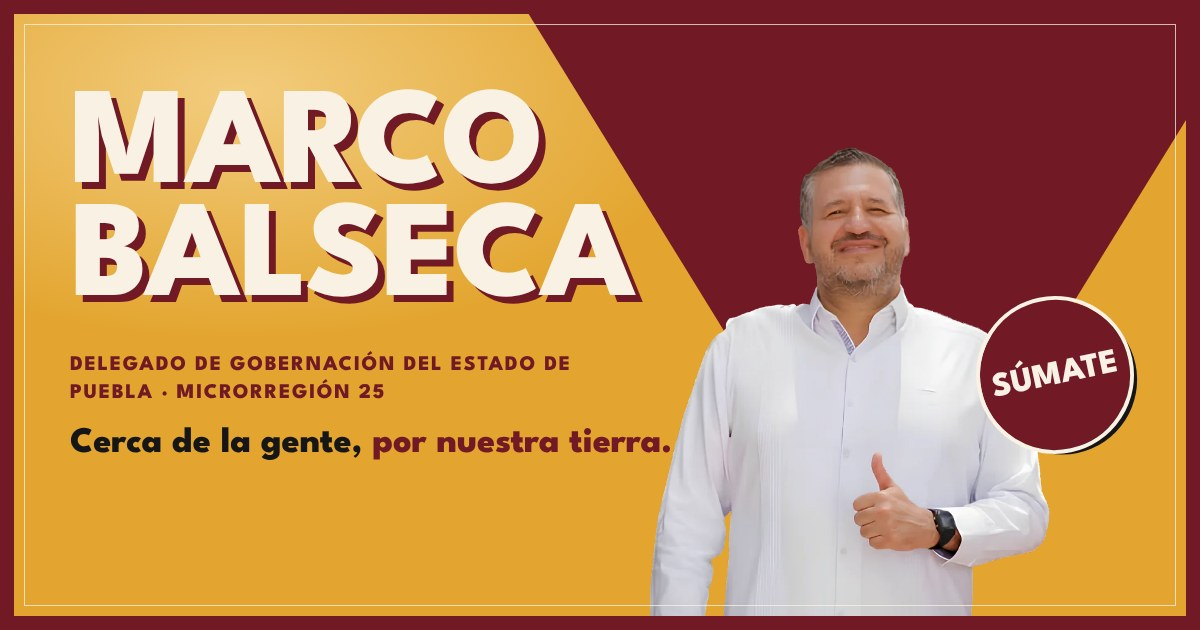
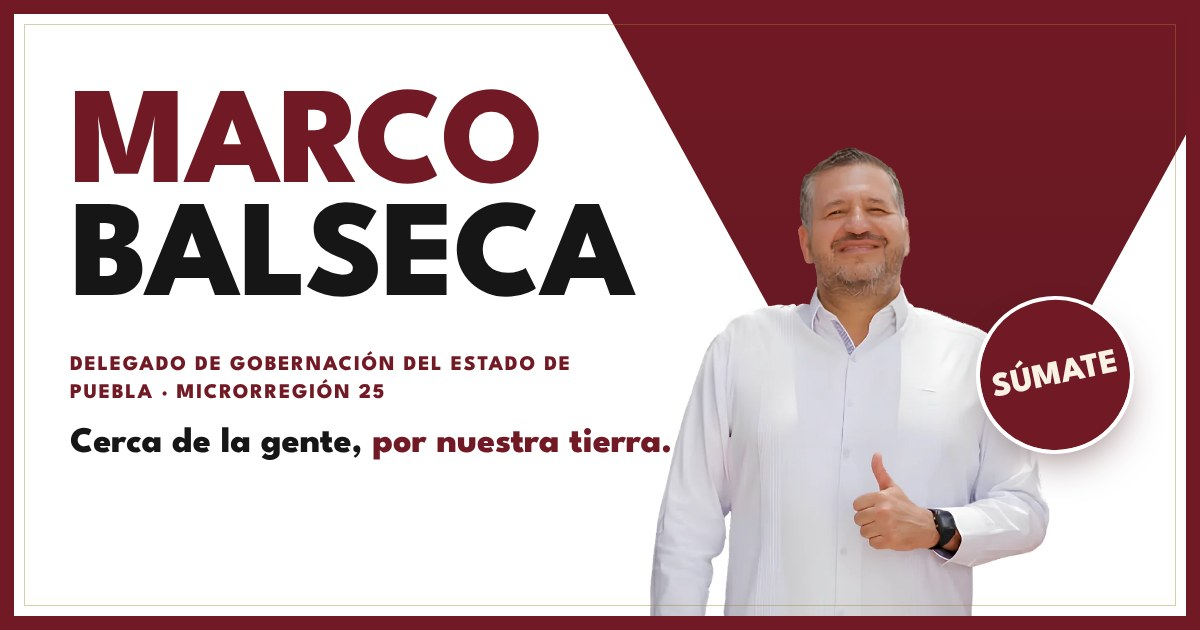
Paleta blanca: fuera el naranja; guinda como único color de peso
- Hero: campo blanco, triángulo guinda anclado al contenedor (no cruza el
  nombre en ningún ancho), nombre en colores de marca, sin sombras duras;
  tope de tamaño del nombre solo en pantallas >=1536px para no montarse
  sobre el teléfono.
- #PuroTehuacán en blanco con triángulo guinda; arco del cierre en blanco;
  testimonios con auras guinda y dorado institucional.
- Se eliminan los tokens marigold y la sombra de póster; og-image en blanco.

Claude-Session: https://claude.ai/code/session_01KDmnSJQ6kaucfzTnVfvZxM

diff --git a/src/pages/Home/Hero.tsx b/src/pages/Home/Hero.tsx
@@ -29,10 +29,10 @@ const HERO_SLIDES: VideoPhoto[] = [
 
 /* =========================================================================
    HERO — "El cartel".
-   Lenguaje de póster de campaña (ref. Mamdani) con identidad propia: campo
-   DORADO intenso, triángulo GUINDA que apunta al teléfono, marco guinda con
-   filete crema, nombre en crema con sombra dura guinda y sello circular
-   "Súmate". El video (montaje de fotos reales) vuelve a ser el protagonista.
+   Estructura de póster de campaña (ref. Mamdani) con la identidad propia:
+   campo BLANCO, un solo color de peso (GUINDA) en el triángulo que apunta al
+   teléfono, marco guinda con filete dorado fino, nombre en sus colores de
+   marca y sello circular "Súmate". El video (montaje de fotos reales) vuelve a ser el protagonista.
    Cierra con una franja guinda de credenciales (cifras verificables).
    ========================================================================= */
 export function Hero() {
@@ -69,62 +69,43 @@ export function Hero() {
     <section
       onMouseMove={onMove}
       onMouseLeave={onLeave}
-      className="relative overflow-hidden bg-marigold text-ink"
+      className="relative overflow-hidden bg-white text-ink"
     >
-      {/* ---------- Fondo de cartel ---------- */}
+      {/* ---------- Fondo de cartel (blanco + guinda) ---------- */}
       <div aria-hidden className="pointer-events-none absolute inset-0 z-0">
-        {/* luz y viñeta: el dorado no se siente plano */}
-        <div
-          className="absolute inset-0"
-          style={{
-            background:
-              'radial-gradient(60% 55% at 25% 20%, rgba(255,236,190,0.55), transparent 65%), radial-gradient(80% 70% at 50% 120%, rgba(201,138,26,0.65), transparent 70%)',
-          }}
-        />
         {/* TRIÁNGULO guinda invertido (figura del cartel) detrás del teléfono */}
+        {/* anclado al contenedor: acompaña siempre al teléfono y no toca el nombre */}
+        <div className="absolute inset-y-0 left-1/2 hidden w-full max-w-[88rem] -translate-x-1/2 lg:block">
+          <div
+            className="absolute -right-[120px] left-[54%] top-[104px] h-[86%] bg-gradient-to-b from-accent to-accent-deep"
+            style={{ clipPath: 'polygon(0 0, 100% 0, 50% 100%)' }}
+          />
+        </div>
+        {/* semitono guinda muy tenue al pie (textura de serigrafía) */}
         <div
-          className="absolute inset-x-0 top-[104px] hidden h-[86%] bg-accent lg:left-[38%] lg:block"
-          style={{ clipPath: 'polygon(0 0, 100% 0, 50% 100%)' }}
-        />
-        {/* semitono guinda sobre el dorado (serigrafía) */}
-        <div
-          className="halftone absolute inset-0 text-accent opacity-[0.10]"
+          className="halftone absolute inset-0 text-accent opacity-[0.06]"
           style={{
-            WebkitMaskImage: 'linear-gradient(to bottom, transparent 30%, #000 100%)',
-            maskImage: 'linear-gradient(to bottom, transparent 30%, #000 100%)',
-          }}
-        />
-        {/* papel/grano */}
-        <div
-          className="absolute inset-0 opacity-[0.09] mix-blend-multiply"
-          style={{ backgroundImage: 'url(/assets/backgrounds/grain.png)', backgroundSize: '420px' }}
-        />
-        {/* textura de póster generada (opcional; si falta, se oculta) */}
-        <img
-          src="/assets/generated/poster-papel.webp"
-          alt=""
-          className="absolute inset-0 h-full w-full object-cover opacity-40 mix-blend-multiply"
-          onError={(e) => {
-            e.currentTarget.style.display = 'none'
+            WebkitMaskImage: 'linear-gradient(to bottom, transparent 45%, #000 100%)',
+            maskImage: 'linear-gradient(to bottom, transparent 45%, #000 100%)',
           }}
         />
       </div>
 
-      {/* Marco del cartel: borde guinda + filete crema interior */}
+      {/* Marco del cartel: borde guinda + filete dorado interior */}
       <div aria-hidden className="pointer-events-none absolute inset-0 z-30 border-[8px] border-accent md:border-[12px]" />
-      <div aria-hidden className="pointer-events-none absolute inset-[14px] z-30 border border-cream/70 md:inset-[22px]" />
+      <div aria-hidden className="pointer-events-none absolute inset-[14px] z-30 border border-gold/35 md:inset-[22px]" />
 
       <div className="container-x relative z-10 pt-28 lg:pt-32">
         <div className="grid items-center gap-y-12 lg:grid-cols-12 lg:gap-x-8">
           {/* ---------------- Texto ---------------- */}
           <div className="relative z-20 lg:col-span-7">
-            <h1 className="[--poster-shadow:var(--color-accent)]">
+            <h1>
               <RevealText
                 as="span"
                 text="Marco"
                 onMount
                 stagger={0.05}
-                className="font-display poster-shadow block text-[19vw] leading-[0.8] text-cream sm:text-[16vw] lg:text-[12.5vw]"
+                className="font-display block text-[19vw] leading-[0.8] text-accent sm:text-[16vw] lg:text-[12.5vw] 2xl:text-[11.25rem]"
               />
               <RevealText
                 as="span"
@@ -132,12 +113,12 @@ export function Hero() {
                 onMount
                 delay={0.12}
                 stagger={0.04}
-                className="font-display poster-shadow block text-[19vw] leading-[0.8] text-cream sm:text-[16vw] lg:text-[12.5vw]"
+                className="font-display block text-[19vw] leading-[0.8] text-ink sm:text-[16vw] lg:text-[12.5vw] 2xl:text-[11.25rem]"
               />
             </h1>
 
             <motion.p {...appear(0.35)} className="mt-7 flex max-w-xl items-start gap-3">
-              <span aria-hidden className="mt-[0.55em] h-[3px] w-10 shrink-0 bg-accent" />
+              <span aria-hidden className="mt-[0.55em] h-[3px] w-10 shrink-0 bg-gradient-to-r from-accent to-gold" />
               <span className="font-condensed text-base font-semibold uppercase leading-snug tracking-[0.08em] text-accent md:text-lg">
                 Delegado de Gobernación del Estado de Puebla · Microrregión 25
               </span>
@@ -150,7 +131,7 @@ export function Hero() {
               Cerca de la gente, <span className="text-accent">por nuestra tierra.</span>
             </motion.p>
 
-            <motion.p {...appear(0.5)} className="mt-5 max-w-xl text-lg text-ink/80 md:text-xl">
+            <motion.p {...appear(0.5)} className="mt-5 max-w-xl text-lg text-ink/75 md:text-xl">
               Soy abogado y maestro en Administración. Empecé en esto a los 15 años y llevo 30 en
               la vida pública, siempre con la misma idea: la política se hace en territorio, cara a
               cara, todos los días.
@@ -162,7 +143,7 @@ export function Hero() {
                   to="/contacto"
                   tone="accent"
                   variant="solid"
-                  className="shadow-[5px_5px_0_0_var(--color-ink)] hover:shadow-[7px_7px_0_0_var(--color-ink)]"
+                  className="shadow-[0_16px_36px_-14px_rgba(113,25,36,0.7)]"
                 >
                   Súmate
                 </ButtonLink>
@@ -172,8 +153,8 @@ export function Hero() {
               </div>
 
               <div className="mt-7 flex items-center gap-3">
-                <span className="eyebrow text-ink/70">Sígueme</span>
-                <span aria-hidden className="h-px w-6 bg-ink/25" />
+                <span className="eyebrow text-mute">Sígueme</span>
+                <span aria-hidden className="h-px w-6 bg-ink/15" />
                 <div className="flex items-center gap-2">
                   {HERO_SOCIAL.map(({ Icon, label, url }) => (
                     <a
@@ -182,7 +163,7 @@ export function Hero() {
                       target="_blank"
                       rel="noreferrer"
                       aria-label={label}
-                      className="flex h-11 w-11 items-center justify-center rounded-full border border-ink/20 text-ink/80 transition-colors duration-200 hover:border-accent hover:bg-accent hover:text-cream"
+                      className="flex h-11 w-11 items-center justify-center rounded-full border border-ink/12 text-ink/70 transition-colors duration-200 hover:border-accent hover:bg-accent hover:text-white"
                     >
                       <Icon className="h-[18px] w-[18px]" />
                     </a>
@@ -197,16 +178,16 @@ export function Hero() {
             {/* Triángulo guinda en móvil: solo detrás del teléfono */}
             <div
               aria-hidden
-              className="pointer-events-none absolute -inset-x-6 -top-8 bottom-[8%] bg-accent lg:hidden"
+              className="pointer-events-none absolute -inset-x-6 -top-8 bottom-[8%] bg-gradient-to-b from-accent to-accent-deep lg:hidden"
               style={{ clipPath: 'polygon(0 0, 100% 0, 50% 100%)' }}
             />
             {/* Prueba social: sobre el triángulo guinda, arriba del teléfono */}
             <motion.div
               {...appear(0.5)}
-              className="relative z-40 mx-auto mb-6 flex w-fit items-center gap-2.5 rounded-2xl bg-accent px-3 py-2 shadow-[4px_4px_0_0_var(--color-ink)] lg:mb-7"
+              className="relative z-40 mx-auto mb-6 flex w-fit items-center gap-2.5 rounded-2xl bg-white px-3 py-2 pr-5 shadow-lift ring-1 ring-ink/5 lg:mb-7"
             >
               <CommunityAvatars count={3} />
-              <LiveCounter tone="bone" layout="inline" />
+              <LiveCounter tone="ink" layout="inline" />
             </motion.div>
 
             <div ref={phoneRef} className="relative">
@@ -215,7 +196,7 @@ export function Hero() {
                 style={{ rotateX: reduce ? 0 : rotX, rotateY: reduce ? 0 : rotY, transformPerspective: 1000 }}
               >
                 {/* Carcasa del teléfono (bezel + botones + dynamic island) */}
-                <div className="relative rounded-[2.7rem] bg-black p-2.5 shadow-[14px_14px_0_0_var(--color-accent-deep),0_40px_70px_-25px_rgba(0,0,0,0.55)] ring-1 ring-black/20">
+                <div className="relative rounded-[2.7rem] bg-black p-2.5 shadow-[0_45px_80px_-30px_rgba(0,0,0,0.6)] ring-1 ring-black/20">
                   <span aria-hidden className="absolute -left-[3px] top-24 h-9 w-[3px] rounded-l-sm bg-black" />
                   <span aria-hidden className="absolute -left-[3px] top-36 h-14 w-[3px] rounded-l-sm bg-black" />
                   <span aria-hidden className="absolute -right-[3px] top-28 h-16 w-[3px] rounded-r-sm bg-black" />
@@ -238,7 +219,7 @@ export function Hero() {
               >
                 <Link
                   to="/contacto"
-                  className="font-display group grid h-28 w-28 -rotate-12 place-items-center rounded-full bg-accent text-center text-2xl leading-none text-cream shadow-[5px_5px_0_0_var(--color-ink)] ring-[3px] ring-cream transition-transform duration-300 hover:-rotate-6 hover:scale-105 md:h-32 md:w-32 md:text-[1.7rem]"
+                  className="font-display group grid h-28 w-28 -rotate-12 place-items-center rounded-full bg-accent text-center text-2xl leading-none text-white shadow-lift ring-[3px] ring-white transition-transform duration-300 hover:-rotate-6 hover:scale-105 md:h-32 md:w-32 md:text-[1.7rem]"
                 >
                   Súmate
                 </Link>

diff --git a/src/pages/Home/SocialStrip.tsx b/src/pages/Home/SocialStrip.tsx
@@ -12,36 +12,35 @@ import { SOCIAL } from '../../data/site'
  */
 export function SocialStrip() {
   return (
-    <section className="grain relative overflow-hidden bg-marigold py-24 text-ink [--grain:0.09] md:py-32">
+    <section className="relative overflow-hidden bg-white py-24 text-ink md:py-32">
       <div
         aria-hidden
-        className="pointer-events-none absolute inset-y-0 right-0 w-full lg:w-1/2"
-        style={{ background: 'radial-gradient(60% 60% at 30% 30%, rgba(255,236,190,0.5), transparent 70%)' }}
+        className="pointer-events-none absolute inset-0"
+        style={{ background: 'radial-gradient(50% 60% at 0% 100%, rgba(230,209,148,0.18), transparent 70%)' }}
       />
       {/* triángulo guinda del cartel detrás de las fotos */}
       <div
         aria-hidden
-        className="pointer-events-none absolute right-0 top-0 h-full w-full bg-accent lg:w-[58%]"
+        className="pointer-events-none absolute right-0 top-0 hidden h-full w-[58%] bg-gradient-to-b from-accent to-accent-deep lg:block"
         style={{ clipPath: 'polygon(18% 0, 100% 0, 100% 100%)' }}
       />
-      <div aria-hidden className="pointer-events-none absolute inset-0 z-[1] border-[8px] border-accent md:border-[12px]" />
-      <div className="container-x relative z-10 grid items-center gap-16 lg:grid-cols-2">
+            <div className="container-x relative z-10 grid items-center gap-16 lg:grid-cols-2">
         <div>
           <SectionLabel tone="accent">Momentos · Redes</SectionLabel>
           <RevealText
             as="h2"
             text="#PuroTehuacán"
-            className="font-display poster-shadow mt-5 text-[12vw] leading-[0.9] text-cream [--poster-shadow:var(--color-accent)] sm:text-6xl lg:text-7xl"
+            className="font-display mt-5 text-[12vw] leading-[0.9] text-accent sm:text-6xl lg:text-7xl"
           />
           <Reveal delay={0.1}>
-            <p className="mt-5 max-w-md text-lg text-ink/85">
+            <p className="mt-5 max-w-md text-lg text-ink/70">
               Así vivo el día a día: en territorio, con la gente, colonia por colonia. Sígueme en
               Instagram y caminemos juntos.
             </p>
           </Reveal>
           <Reveal delay={0.18}>
             <div className="mt-7">
-              <ButtonAnchor href={SOCIAL.instagram.url} tone="accent" variant="solid" arrow className="shadow-[5px_5px_0_0_var(--color-ink)]">
+              <ButtonAnchor href={SOCIAL.instagram.url} tone="accent" variant="solid" arrow>
                 Seguir {SOCIAL.instagram.handle}
               </ButtonAnchor>
             </div>

diff --git a/src/pages/Testimonios.tsx b/src/pages/Testimonios.tsx
@@ -7,7 +7,7 @@ import { useTestimonios } from '../lib/useContent'
 
 /* =========================================================================
    TESTIMONIOS — galería de tarjetas flotantes "en la pared": cada voz es una
-   tarjeta con aura de color (guinda / dorado póster), la cita y la foto del
+   tarjeta con aura de color (guinda / dorado institucional), la cita y la foto del
    lugar fundiéndose desde abajo. Editable desde /admin.
    ========================================================================= */
 
@@ -22,7 +22,7 @@ export default function Testimonios() {
         description="Lo que vecinas y vecinos de Tehuacán dicen de Marco Balseca. Voces reales del territorio."
       />
 
-      <section className="relative min-h-screen overflow-hidden bg-gradient-to-b from-white via-paper to-[#ece9e2] pt-32 pb-16 text-ink md:pt-40">
+      <section className="relative min-h-screen overflow-hidden bg-gradient-to-b from-white via-white to-paper pt-32 pb-16 text-ink md:pt-40">
         {/* Comilla gigante decorativa detrás de la galería */}
         <span
           aria-hidden
@@ -54,7 +54,7 @@ export default function Testimonios() {
         <div className="container-x relative z-10 mt-6 flex items-center gap-5">
           <span
             aria-hidden
-            className="h-11 w-11 shrink-0 rounded-md bg-gradient-to-br from-accent to-marigold shadow-[4px_4px_0_0_var(--color-ink)]"
+            className="h-11 w-11 shrink-0 rounded-md bg-gradient-to-br from-accent to-gold shadow-soft"
           />
           <ButtonLink to="/contacto" tone="accent" variant="outline">
             Cuéntame el tuyo

diff --git a/src/components/ui/TestimonialGallery.tsx b/src/components/ui/TestimonialGallery.tsx
@@ -21,12 +21,12 @@ const FALLBACKS = [
   '/assets/acciones/accion-obra-cancha.webp',
 ]
 
-// Auras alternadas (identidad: guinda + dorado póster)
+// Auras alternadas (identidad: guinda + dorado institucional)
 const AURAS = [
-  { glow: 'rgba(113,25,36,0.55)', avatar: 'from-accent to-accent-soft' },
-  { glow: 'rgba(227,165,47,0.65)', avatar: 'from-marigold-deep to-marigold' },
-  { glow: 'rgba(148,48,60,0.5)', avatar: 'from-accent-deep to-marigold' },
-  { glow: 'rgba(201,138,26,0.55)', avatar: 'from-marigold to-accent' },
+  { glow: 'rgba(113,25,36,0.42)', avatar: 'from-accent to-accent-soft' },
+  { glow: 'rgba(165,127,44,0.35)', avatar: 'from-gold to-[#c9a75a]' },
+  { glow: 'rgba(148,48,60,0.38)', avatar: 'from-accent-deep to-accent' },
+  { glow: 'rgba(230,209,148,0.6)', avatar: 'from-[#8a6a22] to-gold' },
 ]
 
 function initials(nombre: string) {
@@ -99,7 +99,7 @@ function Card({ t, i }: { t: Testimonio; i: number }) {
           ) : (
             <span
               aria-hidden
-              className={`font-condensed grid h-11 w-11 place-items-center rounded-full bg-gradient-to-br text-sm font-bold text-cream ring-2 ring-white ${aura.avatar}`}
+              className={`font-condensed grid h-11 w-11 place-items-center rounded-full bg-gradient-to-br text-sm font-bold text-white ring-2 ring-white ${aura.avatar}`}
             >
               {initials(t.nombre)}
             </span>

diff --git a/src/components/ui/ArchPortrait.tsx b/src/components/ui/ArchPortrait.tsx
@@ -11,7 +11,7 @@ import { GrecaField } from './Greca'
    oculta sola y queda el degradado de marca (nunca imagen rota).
    ========================================================================= */
 
-type Tone = 'accent' | 'sand' | 'cream' | 'marigold'
+type Tone = 'accent' | 'sand' | 'cream' | 'white'
 
 type Props = {
   /** ruta base del recorte SIN extensión (usa .webp y -sm.webp) */
@@ -41,12 +41,12 @@ const TONES: Record<Tone, { bg: string; grecaColor: string; grecaOpacity: number
     ring: 'border-accent/30',
     glow: 'radial-gradient(60% 45% at 50% 30%, rgba(255,255,255,0.55), transparent 70%)',
   },
-  marigold: {
-    bg: 'bg-gradient-to-b from-[#f0c060] via-marigold to-marigold-deep',
+  white: {
+    bg: 'bg-gradient-to-b from-white via-white to-paper',
     grecaColor: 'var(--color-accent)',
-    grecaOpacity: 0.09,
-    ring: 'border-cream/70',
-    glow: 'radial-gradient(60% 45% at 50% 30%, rgba(255,240,200,0.6), transparent 70%)',
+    grecaOpacity: 0.05,
+    ring: 'border-gold/45',
+    glow: 'radial-gradient(60% 45% at 50% 30%, rgba(255,255,255,0.9), transparent 70%)',
   },
   cream: {
     bg: 'bg-gradient-to-b from-white via-cream to-cream-deep',

diff --git a/src/index.css b/src/index.css
@@ -17,11 +17,6 @@
   --color-cream: #f8f1e4; /* crema institucional (fondos claros cálidos) */
   --color-cream-deep: #eee0c6; /* crema profundo (blobs sobre crema) */
   --color-paper: #f6f4f0; /* papel neutro: superficie clara alterna (no amarillenta) */
-  /* ---- Póster (inspiración campaña Mamdani, con nuestra identidad) ----
-     Dorado intenso derivado del dorado institucional: campo de energía para
-     los momentos póster; el guinda hace de figura y de marco. */
-  --color-marigold: #e3a52f; /* dorado póster (campo) */
-  --color-marigold-deep: #c98a1a; /* dorado póster sombra */
   --color-wine: #3d0f16; /* vino profundo: footer y sombras de marca */
 
   /* ---- Base neutra B&N ---- */
@@ -218,12 +213,6 @@
     background-size: 420px;
     opacity: var(--grain, 0.05);
     mix-blend-mode: multiply;
-  }
-
-  /* Sombra dura de póster (offset sólido, sin blur) — ref. cartel de campaña.
-     Solo efecto de color: la fuente y el peso no cambian. */
-  .poster-shadow {
-    text-shadow: 0.055em 0.055em 0 var(--poster-shadow, var(--color-accent));
   }
 
   /* Semitono de puntos (textura de serigrafía) */

diff --git a/src/components/layout/CtaBand.tsx b/src/components/layout/CtaBand.tsx
@@ -69,7 +69,7 @@ export function CtaBand() {
             cutout="/assets/portraits/marco-hero-cut"
             alt="Súmate con Marco Balseca"
             backdrop="/assets/generated/cta-atardecer-tehuacan.webp"
-            tone="marigold"
+            tone="white"
             className="aspect-[4/5] w-full"
             cutoutClassName="w-[94%]"
           />

diff --git a/docs/PROMPTS-IMAGENES.md b/docs/PROMPTS-IMAGENES.md
@@ -8,29 +8,26 @@ rota. Guarda cada archivo con el **nombre y la ruta exactos** y se activa solo.
 > - **No generes a Marco ni a personas reales.** Lo generado son lugares, texturas e
 >   ilustraciones; las fotos de Marco y de la gente son reales.
 > - Sin texto, letreros ni logotipos dentro de la imagen.
-> - Paleta: guinda `#711924`, dorado póster `#E3A52F`, dorado claro `#E6D194`,
->   crema `#F8F1E4`.
+> - Paleta: blanco dominante, guinda `#711924` como único color de peso y dorado
+>   institucional `#A57F2C` / `#E6D194` solo como acento.
 > - Exporta en **WebP calidad 80–85** (ver conversión al final).
 
 | # | Archivo | Dónde se ve | Formato |
 |---|---|---|---|
-| 1 | `public/assets/generated/poster-papel.webp` | Textura de papel sobre el Hero (cartel dorado) | 16:10, 2400×1500 |
-| 2 | `public/assets/generated/testimonios/t1.webp` | Tarjeta de Doña Rosa (Mercado La Purísima) | 16:10, 1200×750 |
-| 3 | `public/assets/generated/testimonios/t2.webp` | Tarjeta de Luis (cancha, Col. San Diego Chalma) | 16:10, 1200×750 |
-| 4 | `public/assets/generated/testimonios/t3.webp` | Tarjeta de Mari (calle de la escuela, San Pablo Tepetzingo) | 16:10, 1200×750 |
-| 5 | `public/assets/generated/testimonios/t4.webp` | Tarjeta de Don Chucho (Centro de Tehuacán) | 16:10, 1200×750 |
-| 6 | `public/assets/generated/cta-atardecer-tehuacan.webp` | Arco dorado del cierre "Vamos juntos" | 4:5, 1200×1500 |
-| 7 | `public/assets/generated/valle-tehuacan-lineal.webp` | Horizonte dibujado bajo la cita | 4:1, 2400×600, fondo blanco |
+| 1 | `public/assets/generated/testimonios/t1.webp` | Tarjeta de Doña Rosa (Mercado La Purísima) | 16:10, 1200×750 |
+| 2 | `public/assets/generated/testimonios/t2.webp` | Tarjeta de Luis (cancha, Col. San Diego Chalma) | 16:10, 1200×750 |
+| 3 | `public/assets/generated/testimonios/t3.webp` | Tarjeta de Mari (calle de la escuela, San Pablo Tepetzingo) | 16:10, 1200×750 |
+| 4 | `public/assets/generated/testimonios/t4.webp` | Tarjeta de Don Chucho (Centro de Tehuacán) | 16:10, 1200×750 |
+| 5 | `public/assets/generated/cta-atardecer-tehuacan.webp` | Arco blanco del cierre "Vamos juntos" | 4:5, 1200×1500 |
+| 6 | `public/assets/generated/valle-tehuacan-lineal.webp` | Horizonte dibujado bajo la cita | 4:1, 2400×600, fondo blanco |
 
 Los prompts completos (en inglés, que es como mejor responden los modelos) están en
 el historial del chat donde se entregaron. Resumen de intención por ranura:
 
-1. **Papel de cartel:** papel crema envejecido escaneado, fibras, pliegues suaves y
-   moteado de serigrafía. Uniforme, sin manchas grandes. Se multiplica sobre el dorado.
-2. a 5. **Lugares de cada testimonio**, sin personas, luz cálida de tarde, el motivo en
+1. a 4. **Lugares de cada testimonio**, sin personas, luz cálida de tarde, el motivo en
    el tercio inferior (la parte de arriba se funde en blanco en la tarjeta).
-6. **Portal colonial en clave alta**, muy luminoso (se mezcla por luminosidad con el dorado).
-7. **Ilustración de una sola línea** del valle en guinda sobre blanco puro.
+5. **Portal colonial en clave alta**, muy luminoso (se mezcla por luminosidad con el arco blanco).
+6. **Ilustración de una sola línea** del valle en guinda sobre blanco puro.
 
 **Portadas de Reels:** no uses IA. Guarda un cuadro real del video (9:16, ~720×1280)
 como `public/assets/reels/<id>.webp` (ej. `reel-1.webp`, el `id` está en
@@ -39,7 +36,6 @@ como `public/assets/reels/<id>.webp` (ej. `reel-1.webp`, el `id` está en
 ## Conversión a WebP
 
 ```bash
-cwebp -q 82 -resize 2400 0 poster-papel.png -o public/assets/generated/poster-papel.webp
 cwebp -q 82 -resize 1200 0 t1.png -o public/assets/generated/testimonios/t1.webp
 cwebp -q 82 -resize 1200 0 cta-atardecer-tehuacan.png -o public/assets/generated/cta-atardecer-tehuacan.webp
 cwebp -q 85 -resize 2400 0 valle-tehuacan-lineal.png -o public/assets/generated/valle-tehuacan-lineal.webp
